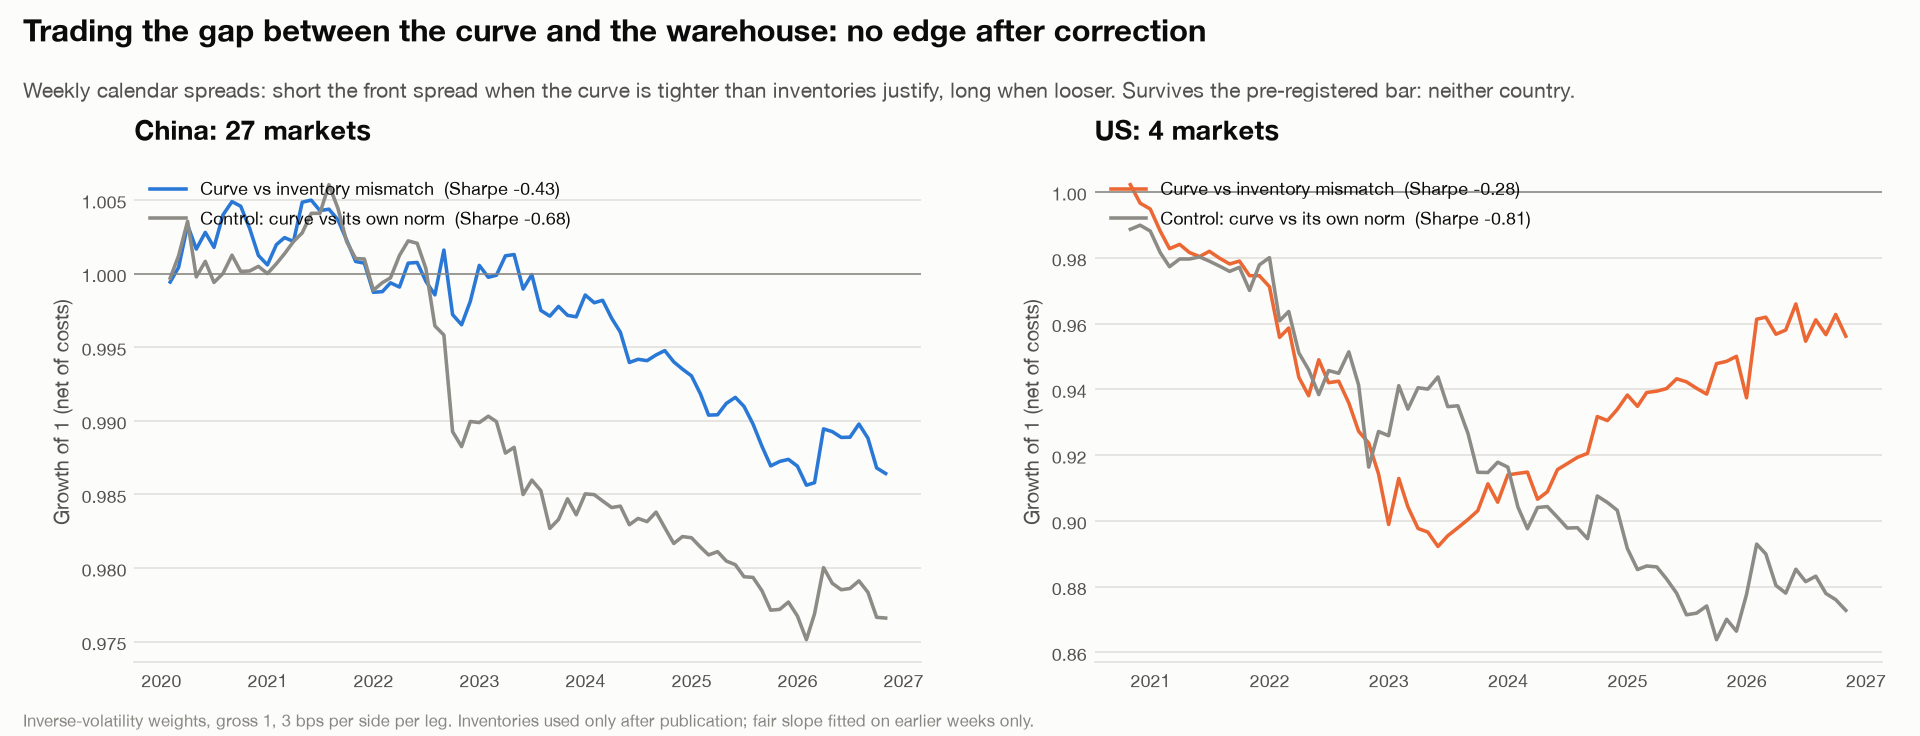
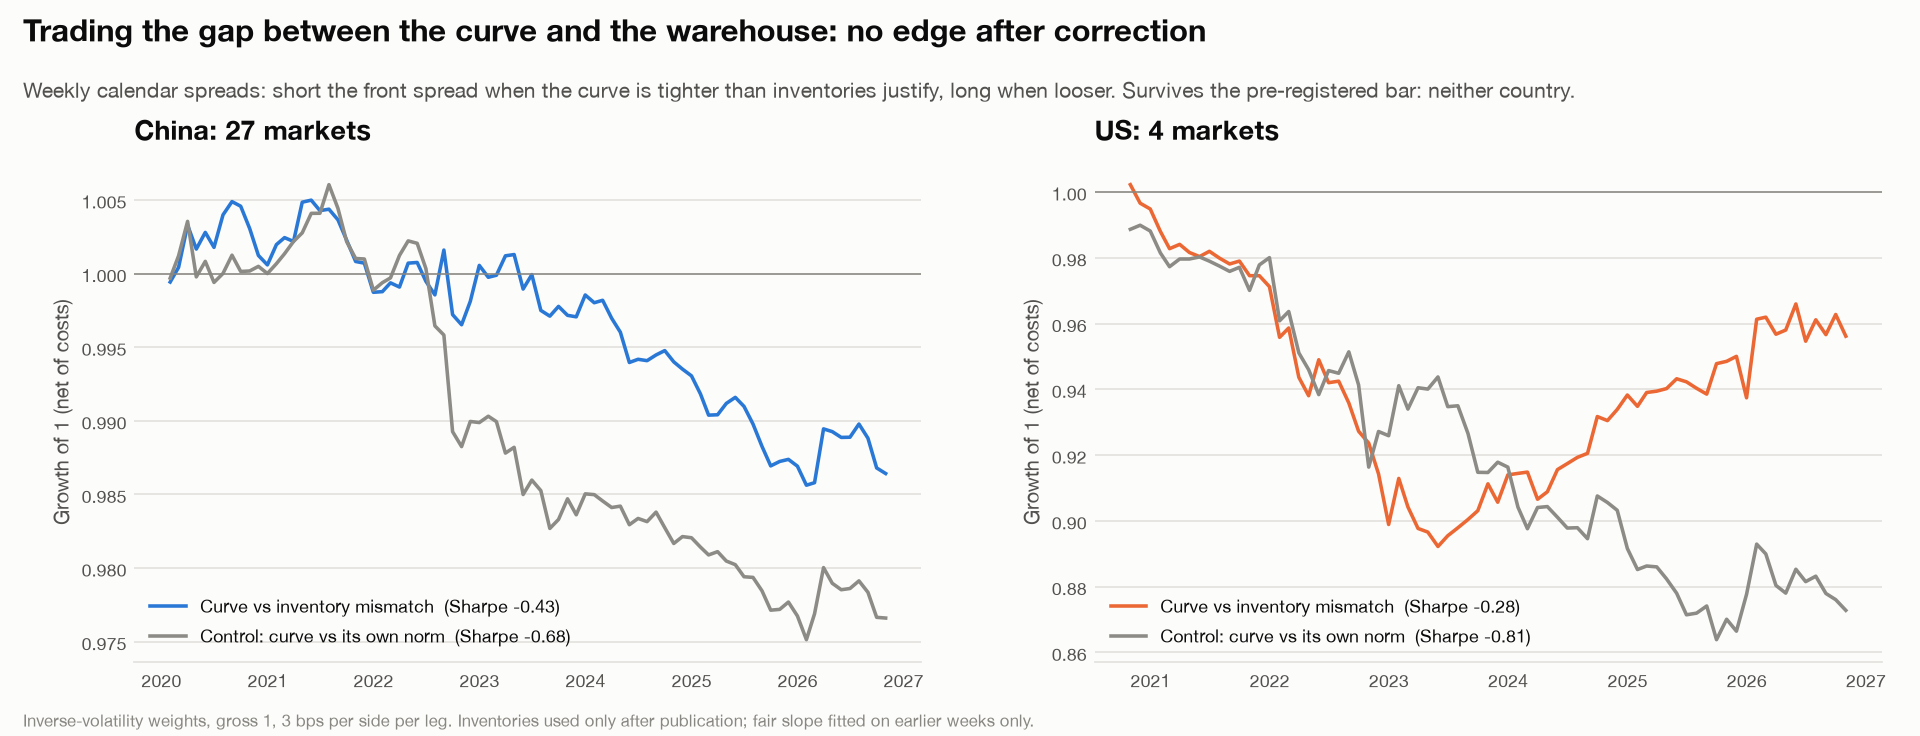
CL2 result: curve-inventory mismatch spreads fail in both countries (China Sharpe -0.43, US -0.28; q 0.89 / 0.79); 4 trials logged (222 total); README section 7, refreshed q-values

diff --git a/contangolab/studies/mismatch.py b/contangolab/studies/mismatch.py
@@ -162,7 +162,7 @@ def chart(out: dict, verdicts: dict, path=RESULTS / "curve_mismatch.png") -> Non
             ax.plot(m_idx, (1 + mo).cumprod(), color=color, linewidth=1.6,
                     label=f"{lab}  (Sharpe {r['sharpe']:+.2f})")
         ax.axhline(1, color=MUTED, linewidth=0.7)
-        ax.legend(frameon=False, fontsize=8, loc="upper left", labelcolor=INK)
+        ax.legend(frameon=False, fontsize=8, loc="lower left", labelcolor=INK)
     fig.subplots_adjust(top=0.78, bottom=0.10, left=0.07, right=0.98, wspace=0.22)
     passed = [COUNTRY[c] for c in ("cn", "us") if verdicts[c]["survivor"]]
     headline(fig, "Trading the gap between the curve and the warehouse"

diff --git a/README.md b/README.md
@@ -27,7 +27,8 @@ to git before it was run.
 | 2 | **A backwardated curve warns of volatility.** With no inventory buffer, shocks hit price. | Next-month volatility runs 16% (China) and 20% (US) above normal in the most backwardated third of days, in 53 of 63 and 17 of 18 markets. |
 | 3 | **China's curves run tighter than America's.** Same years, very different storage economics. | Backwardated on 54% vs 20% of days in grains, and on 42% of days in Chinese base metals vs 11% for US copper. Chinese iron ore: 99% of days. |
 | 4 | **Gold's US curve is an interest rate.** COMEX gold contango tracks the 3-month T-bill almost one-for-one. Shanghai's does not, so the pre-registered test failed. | US slope 0.91, R² 0.91. China slope 0.12, R² 0.01. |
-| 5 | **Trading the curve did not pay in the US.** Trend and momentum survive multiple-testing correction in China, but nothing does in the US. Carry lost money, short crude into the 2020 rebound. | China: 5 of 6 signals survive (best Sharpe 0.66). US: 0 of 8. 218 tests logged and corrected together. |
+| 5 | **Trading the curve did not pay in the US.** Trend and momentum survive multiple-testing correction in China, but nothing does in the US. Carry lost money, short crude into the 2020 rebound. | China: 5 of 6 signals survive (best Sharpe 0.66). US: 0 of 8. 222 tests logged and corrected together. |
+| 6 | **When the curve and inventories disagree, the gap does not close within a week.** Calendar spreads betting on the curve snapping back to its inventory-implied level lost money in both countries. | Net Sharpe −0.43 (China, 27 markets) and −0.28 (US, 4 markets). Pre-registered test failed. |
 
 ## 1. The Curve Atlas
 
@@ -104,14 +105,14 @@ The same signals run on both countries through one engine:
 
 | Signal | US net Sharpe (first / second half) | q (all trials) | China, same years |
 |---|---|---|---|
-| 1-month trend | 0.41 (0.42 / 0.39) | 0.12 | 0.55 |
-| 12-month trend | 0.33 (0.15 / 0.53) | 0.18 | 0.43 |
+| 1-month trend | 0.41 (0.42 / 0.39) | 0.13 | 0.55 |
+| 12-month trend | 0.33 (0.15 / 0.53) | 0.19 | 0.43 |
 | Basis-momentum (Boons & Prado 2019) | 0.32 (−0.33 / 0.77) | 0.20 | — |
 | 63-day rank momentum | 0.31 (0.30 / 0.32) | 0.20 | 0.67 |
 | Donchian breakout | 0.19 (0.37 / −0.01) | 0.31 | 0.36 |
 | 20/60 moving average | 0.09 (0.16 / −0.00) | 0.43 | 0.42 |
-| Hedging pressure, CFTC (Basu & Miffre 2013) | −0.05 (−0.02 / −0.07) | 0.60 | — |
-| Carry: long backwardation, short contango | −0.11 (−0.72 / 0.42) | 0.68 | 0.30 |
+| Hedging pressure, CFTC (Basu & Miffre 2013) | −0.05 (−0.02 / −0.07) | 0.61 | — |
+| Carry: long backwardation, short contango | −0.11 (−0.72 / 0.42) | 0.69 | 0.30 |
 
 **US:** no signal clears the bar (q ≤ 0.10 and positive in both halves).
 - **Carry** was short crude, gasoline and heating oil at the deepest contango of spring 2020;
@@ -126,13 +127,37 @@ The same signals run on both countries through one engine:
   - its walk-forward pick lost to that plain default in the second half;
   - its Probability of Backtest Overfitting was 0.59.
 
+## 7. Can you trade the gap between the curve and the warehouse?
+
+Section 3 gives a "fair" slope for any level of inventory. When the curve is tighter than
+inventories justify, does it relax, and can a calendar spread (long the front month, short the
+next, or the reverse) earn that?
+
+**Setup:**
+- Weekly calendar spreads in the 31 markets with inventory data.
+- Inventories are used only after publication.
+- The fair slope is fitted on earlier weeks only.
+- A control makes the same bet without inventories.
+
+![Curve mismatch](results/curve_mismatch.png)
+
+**It doesn't work.** Net Sharpe was −0.43 in China and −0.28 in the US, and both failed the
+pre-registered bar.
+
+At a one-week horizon, a curve that is out of line tends to *stay* out of line. The pure curve
+control loses even more. That fits the evidence that spreads trend (Boons & Prado 2019). The
+opposite bet is not claimed: it would need its own pre-registered test. Details are in
+[`cl2-results.md`](docs/protocols/cl2-results.md).
+
 ## Why the numbers can be trusted
 
 - **Rules first.** Each study's hypotheses, measures and pass bars are committed before it runs:
   - the curve studies: [`docs/protocols/cl1-curve-studies.md`](docs/protocols/cl1-curve-studies.md);
   - their results, including the expectations that missed:
-    [`cl1-results.md`](docs/protocols/cl1-results.md).
-- **Every trial counts.** All 218 trading tests are in `results/trials.jsonl`, including failures
+    [`cl1-results.md`](docs/protocols/cl1-results.md);
+  - the mismatch trade's rules and results: [`cl2-mismatch.md`](docs/protocols/cl2-mismatch.md),
+    [`cl2-results.md`](docs/protocols/cl2-results.md).
+- **Every trial counts.** All 222 trading tests are in `results/trials.jsonl`, including failures
   and the abandoned US equity work. Benjamini–Hochberg q-values are computed over all of them.
 - **No future data:**
   - the contract held today is chosen with yesterday's open interest;
@@ -158,7 +183,7 @@ contangolab/
   signals/   trading-signal library and registry (fixed signs, sources, publication years)
   engine/    datasets, the shared monthly test, trial log, walk-forward combination,
              portfolio simulation, design-space search, Deflated Sharpe / PBO
-  studies/   one module per question: atlas, twins, storage, volatility, cases, cross_market
+  studies/   one module per question: atlas, twins, storage, volatility, cases, mismatch, cross_market
 results/     every chart and table above, plus trials.jsonl
 docs/        pre-registrations and results
 tests/       87 offline tests on synthetic markets (look-ahead, accounting, statistics)

diff --git a/docs/protocols/cl2-results.md b/docs/protocols/cl2-results.md
@@ -1,0 +1,42 @@
+# CL2 results: trading the curve–inventory mismatch
+
+Rules: [`cl2-mismatch.md`](cl2-mismatch.md), committed before the first run (69c5e56). Run on 2026-10-12. The four trials are logged in `results/trials.jsonl` (protocol `cl2-v1`; the log now holds 222 trials).
+
+Chart: `results/curve_mismatch.png`. Table: `results/curve_mismatch.csv`.
+
+**Verdict: FAIL in both countries.** Neither book survives the multiple-testing correction, and the inventory signal does not beat the no-inventory control in both halves.
+
+| Book | Months | Net Sharpe | t | Halves | q (all 222 trials) |
+|---|---|---|---|---|---|
+| China MISMATCH (27 markets) | 82 (2020-01 →) | −0.43 | −1.13 | −0.05 / −0.98 | 0.89 |
+| China REVERT, control | 166 (2013-01 →) | −0.14 | −0.52 | +0.24 / −0.68 | 0.74 |
+| China REVERT, MISMATCH's months | 82 | −0.68 | −1.77 | −0.71 / −0.68 | — |
+| US MISMATCH (CL, HO, RB, NG) | 73 (2020-10 →) | −0.28 | −0.69 | −1.44 / +0.76 | 0.79 |
+| US REVERT, control | 106 (2018-01 →) | −0.40 | −1.18 | −0.29 / −0.56 | 0.90 |
+| US REVERT, MISMATCH's months | 73 | −0.81 | −2.01 | −0.99 / −0.61 | — |
+
+**Inventory adds value?** No, by the pre-registered test (better than the control in both halves):
+- China: better in the first half (−0.05 vs −0.71), worse in the second (−0.98 vs −0.68).
+- US: worse in the first half (−1.44 vs −0.99), better in the second (+0.76 vs −0.61).
+
+Over the whole period the inventory version lost less than the control in both countries (−0.43 vs −0.68; −0.28 vs −0.81). That is a hint, not a result.
+
+## Checks run before logging (none depends on the result)
+
+- **Sign of the spread return.** On days when neither leg rolls, the daily spread return (`ret − farRet`) correlates **0.90** (China) and **0.99** (US) with the change in the curve slope. So a long spread does gain when the curve moves toward backwardation, as specified.
+- **Look-ahead.** Replacing all slope data after a cutoff with noise leaves every signal before the cutoff unchanged.
+
+## What it means
+
+At a one-week horizon, a curve that is out of line with its seasonal norm or with inventories tends to **stay out of line, or move further**, rather than snap back. Two pieces of evidence:
+- Both "bet on correction" books lose money.
+- The pure curve-reversion control loses the most.
+
+This fits the basis-momentum evidence (Boons & Prado 2019): spreads trend.
+
+The trade is also tiny in money terms. A spread book with gross exposure 1 had annualized returns of a few tenths of a percent either way. That's because the front two contracts move almost together. A real desk would size spreads with leverage.
+
+## Not done
+
+- **The opposite bet** (mismatches persist, so trade with them) is **not** claimed. Flipping a sign after seeing the result would be exactly the search this protocol exists to prevent. If tested, it gets its own protocol and trial entries, and the four CL2 trials stay in the count.
+- **Horizons and thresholds.** No other horizon, threshold or subset was run.

diff --git a/ARCHITECTURE.md b/ARCHITECTURE.md
@@ -99,6 +99,7 @@ with `python -m contangolab study <name>`, or all of them with `study all`.
 | `storage` | Do inventories set the curve (theory of storage)? | H3 |
 | `volatility` | Does backwardation warn of volatility? | H4 |
 | `cases` | What did whole curves look like in April 2020 and March 2022? | descriptive |
+| `mismatch` | Does a curve that disagrees with inventories correct, and can a calendar spread earn it? Run with `--log` to append its trials. | CL2 |
 | `cross_market` | Do the same trading signals work in both countries over the same years? | from the trial log |
 | `reconcile_dolphindb` | Does the China pipeline match the DolphinDB build it was ported from? | exact match |
 
